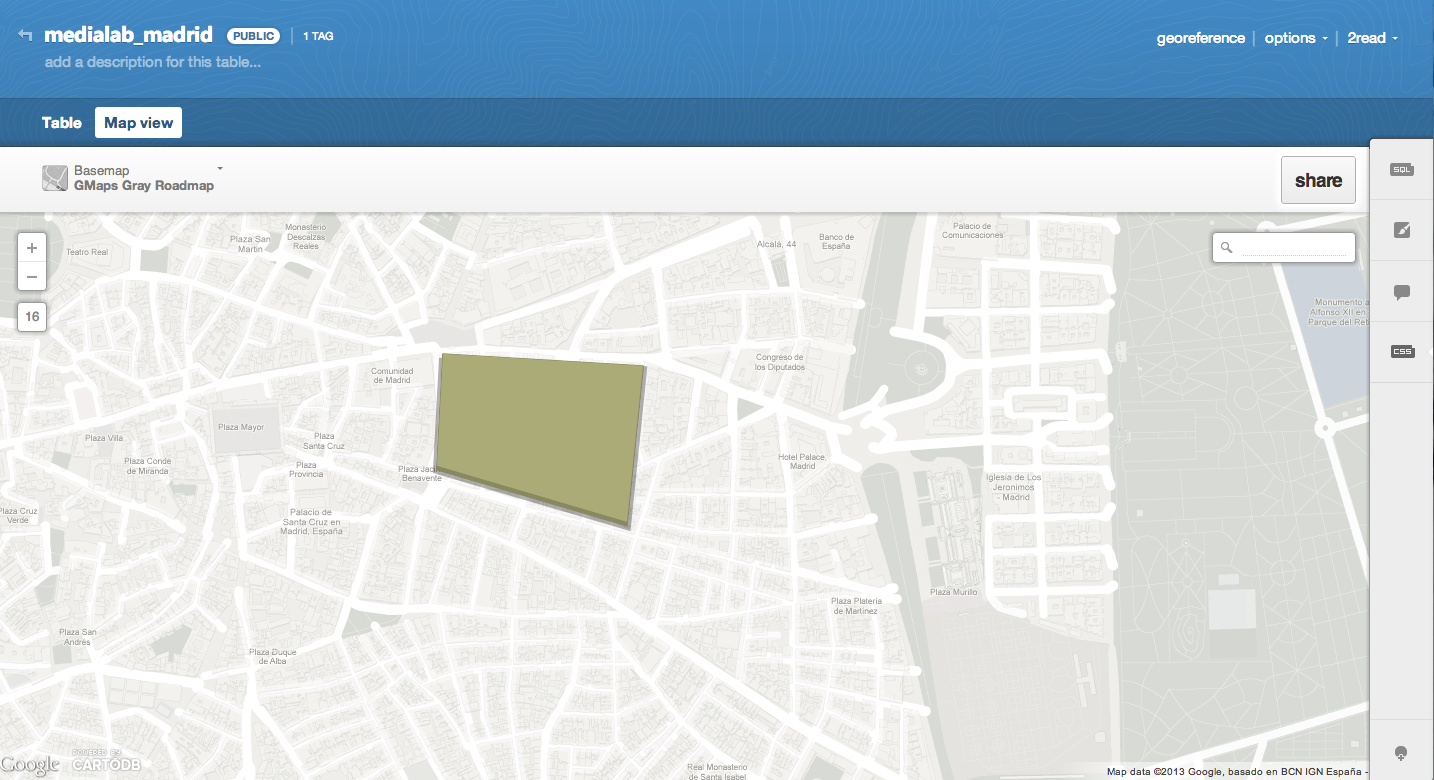
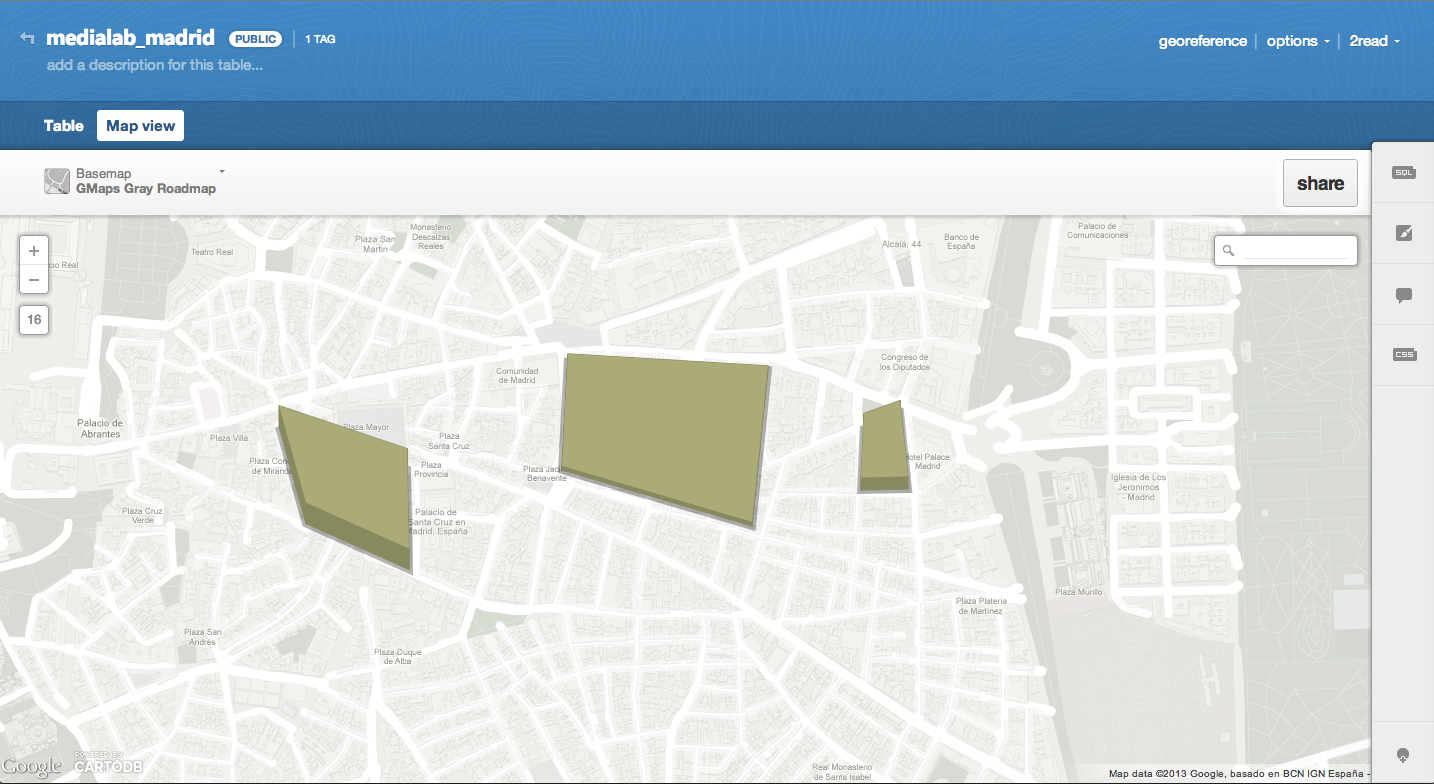
building-height

diff --git a/readme.md b/readme.md
@@ -46,15 +46,15 @@
 <p>La tabla incluye los datos de tres archivos. Los he unido utilizando esta función en el menú SQL: </p> 
 <code>SELECT 'abastos' as new_table, the_geom, denominaci, direccion FROM abastos<br>UNION SELECT 'galerias' as new_table, the_geom, direccion, nombre from galimenta<br>UNION SELECT 'hipermercados' as new_table, the_geom, direccion, eti FROM hipermercados</code>
 
-<h4>Añadir una imagen al infowindow</h4>
+<h4>Cómo añadir una imagen al infowindow</h4>
 
 ![Alt text](img/4.png "image infowindow cartocss")
 
-<h4>Editamos los estilos (diferenciar puntos)</h4>
+<h4>CartoCSS</h4>
 <p>Código CartoCSS: https://gist.github.com/cmdelaserna/1b44e2be33b176422d20</p>
 <p>Mapa: http://cdb.io/Wza1lw</p>
 
-<h4>Crear un polígono, puntos o líneas + cartocss building-height</h4>
+<h4>Cómo crear un polígono + cartocss building-height</h4>
 ![Alt text](img/6.png "building-height cartocss")
 
 <h4>Elaboración de un mapa de intensidad</h4>
